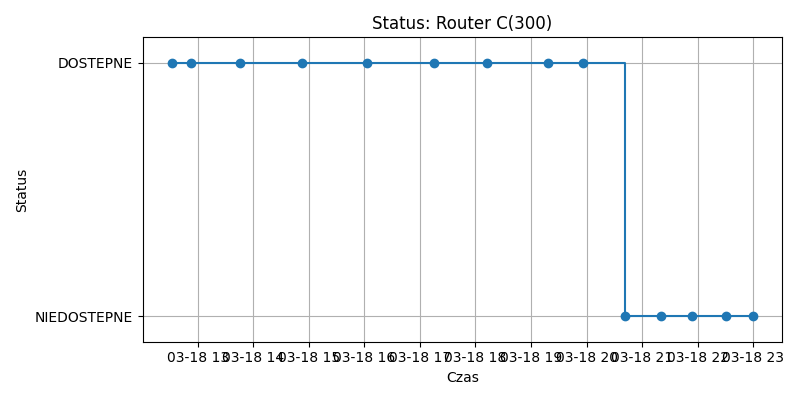
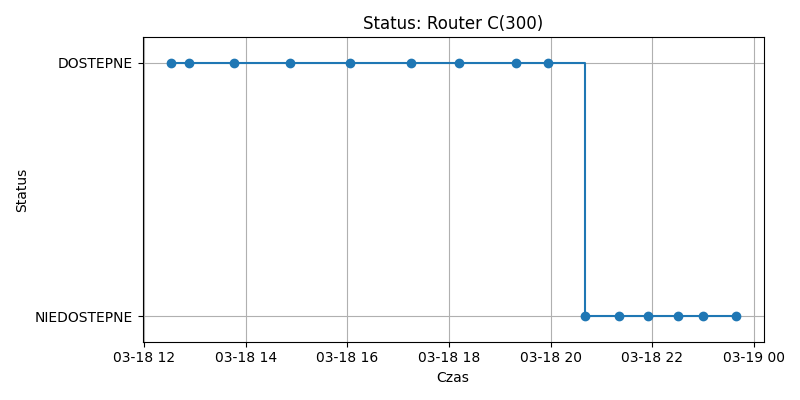
Automatyczna aktualizacja monitoringu

diff --git a/index.html b/index.html
@@ -33,5 +33,5 @@ img { border: 1px solid #ccc; border-radius: 8px; }
                 <div>Router C(300)</div>
                 <img src="chart_Router C(300).png" alt="Router C(300)" style="max-width:600px; margin-top:10px;">
             </div>
-            <p>Ostatnia zmiana: 2026-03-18 23:00:04</p>
+            <p>Ostatnia zmiana: 2026-03-18 23:38:13</p>
 </body></html>
